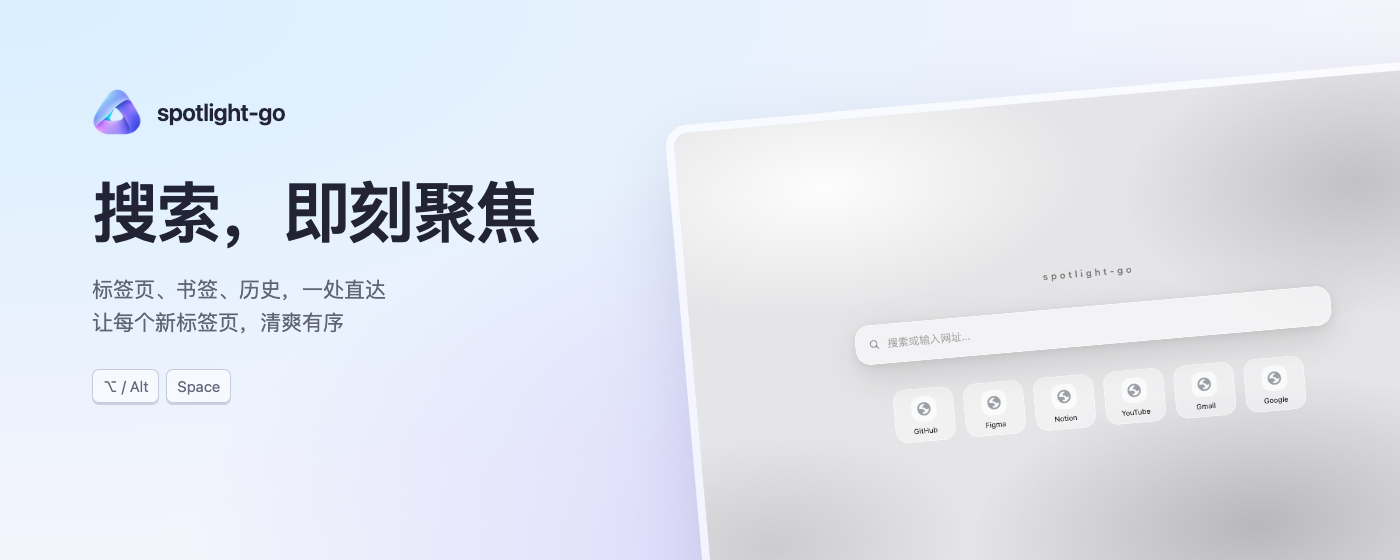
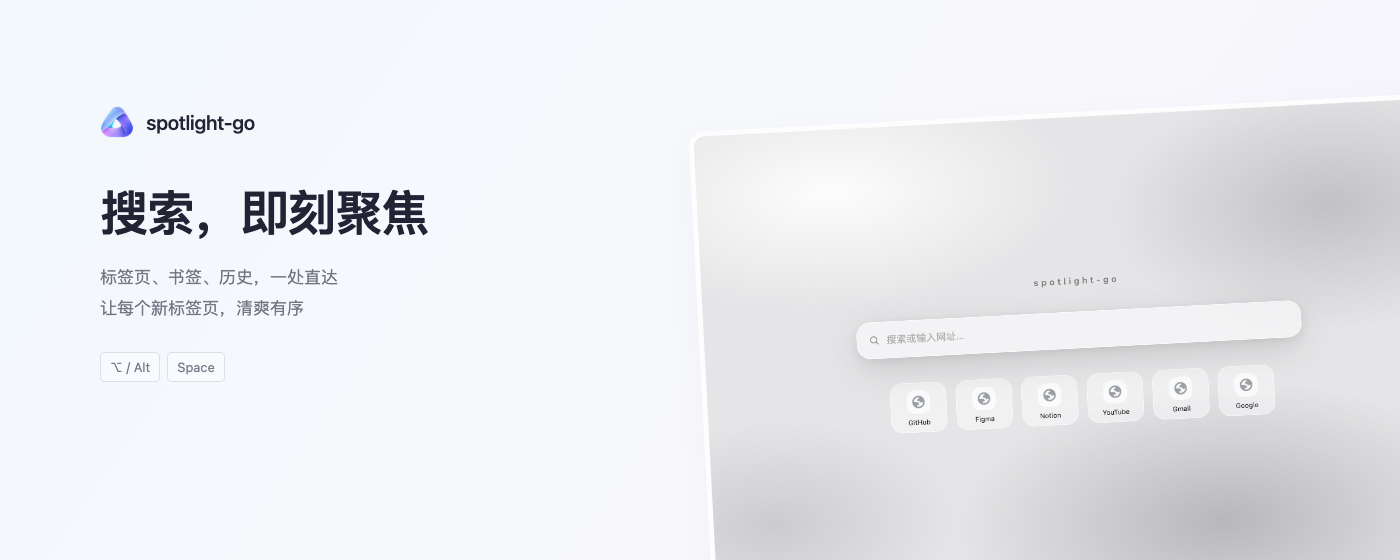
fix: 精简商店宣传图并缩小品牌与文字

diff --git a/docs/store-assets/promo.html b/docs/store-assets/promo.html
@@ -4,12 +4,12 @@
 <title>Spotlight Go</title>
 <style>
 *{box-sizing:border-box}body{margin:0;color:#222435;font-family:-apple-system,BlinkMacSystemFont,"PingFang SC",sans-serif;background:#f0f1fc;overflow:hidden}
-.canvas{height:100vh;position:relative;overflow:hidden;background:radial-gradient(ellipse at 90% 100%,#c7c5fb 0,transparent 60%),radial-gradient(ellipse at 0 0,#d9efff 0,transparent 70%),#f4f4fc}
-.copy{position:absolute;left:92px;top:87px;z-index:2}.brand{display:flex;align-items:center;gap:15px;font-size:24px;font-weight:600;letter-spacing:-.6px}.brand img{width:50px;height:50px}
-h1{font-size:66px;line-height:1.18;letter-spacing:-2px;margin:36px 0 22px;font-weight:650}p{font-size:21px;color:#616477;margin:0;line-height:1.6}
-.preview{position:absolute;left:685px;top:90px;width:820px;height:513px;border:8px solid #ffffffa6;border-radius:22px;overflow:hidden;box-shadow:0 30px 80px #55538930;transform:rotate(-5deg)}.preview img{width:100%;height:100%;object-fit:cover}
-.key{margin-top:29px;display:inline-flex;align-items:center;gap:7px;font-size:15px;color:#65687b}.key span{border:1px solid #c7c9dc;background:#ffffff85;box-shadow:0 2px 0 #cdd0df;padding:7px 10px;border-radius:7px}
-body.small .copy{left:28px;top:24px}body.small .brand{font-size:18px;gap:9px}body.small .brand img{width:35px;height:35px}body.small h1{font-size:35px;letter-spacing:-1px;margin:21px 0 12px}body.small p{font-size:14px}body.small .key{margin-top:19px;font-size:12px}body.small .key span{padding:4px 7px}body.small .preview{display:none}body.small .canvas:after{content:"";position:absolute;width:175px;height:175px;right:-56px;bottom:-60px;border:28px solid #ada8f72e;border-radius:50%}
+.canvas{height:100vh;position:relative;overflow:hidden;background:linear-gradient(125deg,#f2f8fc,#f8f8fc 60%,#f3f2fb)}
+.copy{position:absolute;left:100px;top:105px;z-index:2}.brand{display:flex;align-items:center;gap:12px;font-size:20px;font-weight:550;letter-spacing:-.3px}.brand img{width:34px;height:34px}
+h1{font-size:48px;line-height:1.25;letter-spacing:-1px;margin:43px 0 20px;font-weight:600}p{font-size:17px;color:#737583;margin:0;line-height:1.8}
+.preview{position:absolute;left:700px;top:112px;width:760px;height:475px;border:5px solid #ffffffc0;border-radius:16px;overflow:hidden;box-shadow:0 10px 30px #5553890c;transform:rotate(-3deg)}.preview img{width:100%;height:100%;object-fit:cover}
+.key{margin-top:29px;display:inline-flex;align-items:center;gap:7px;font-size:13px;color:#777988}.key span{border:1px solid #dddfe8;background:#ffffff60;padding:6px 9px;border-radius:5px}
+body.small .copy{left:36px;top:33px}body.small .brand{font-size:14px;gap:8px}body.small .brand img{width:23px;height:23px}body.small h1{font-size:26px;letter-spacing:-.5px;margin:29px 0 14px}body.small p{font-size:12px;line-height:1.85}body.small .key{margin-top:24px;font-size:10px}body.small .key span{padding:4px 6px}body.small .preview{display:none}
 </style>
 <body>
 <main class="canvas">
